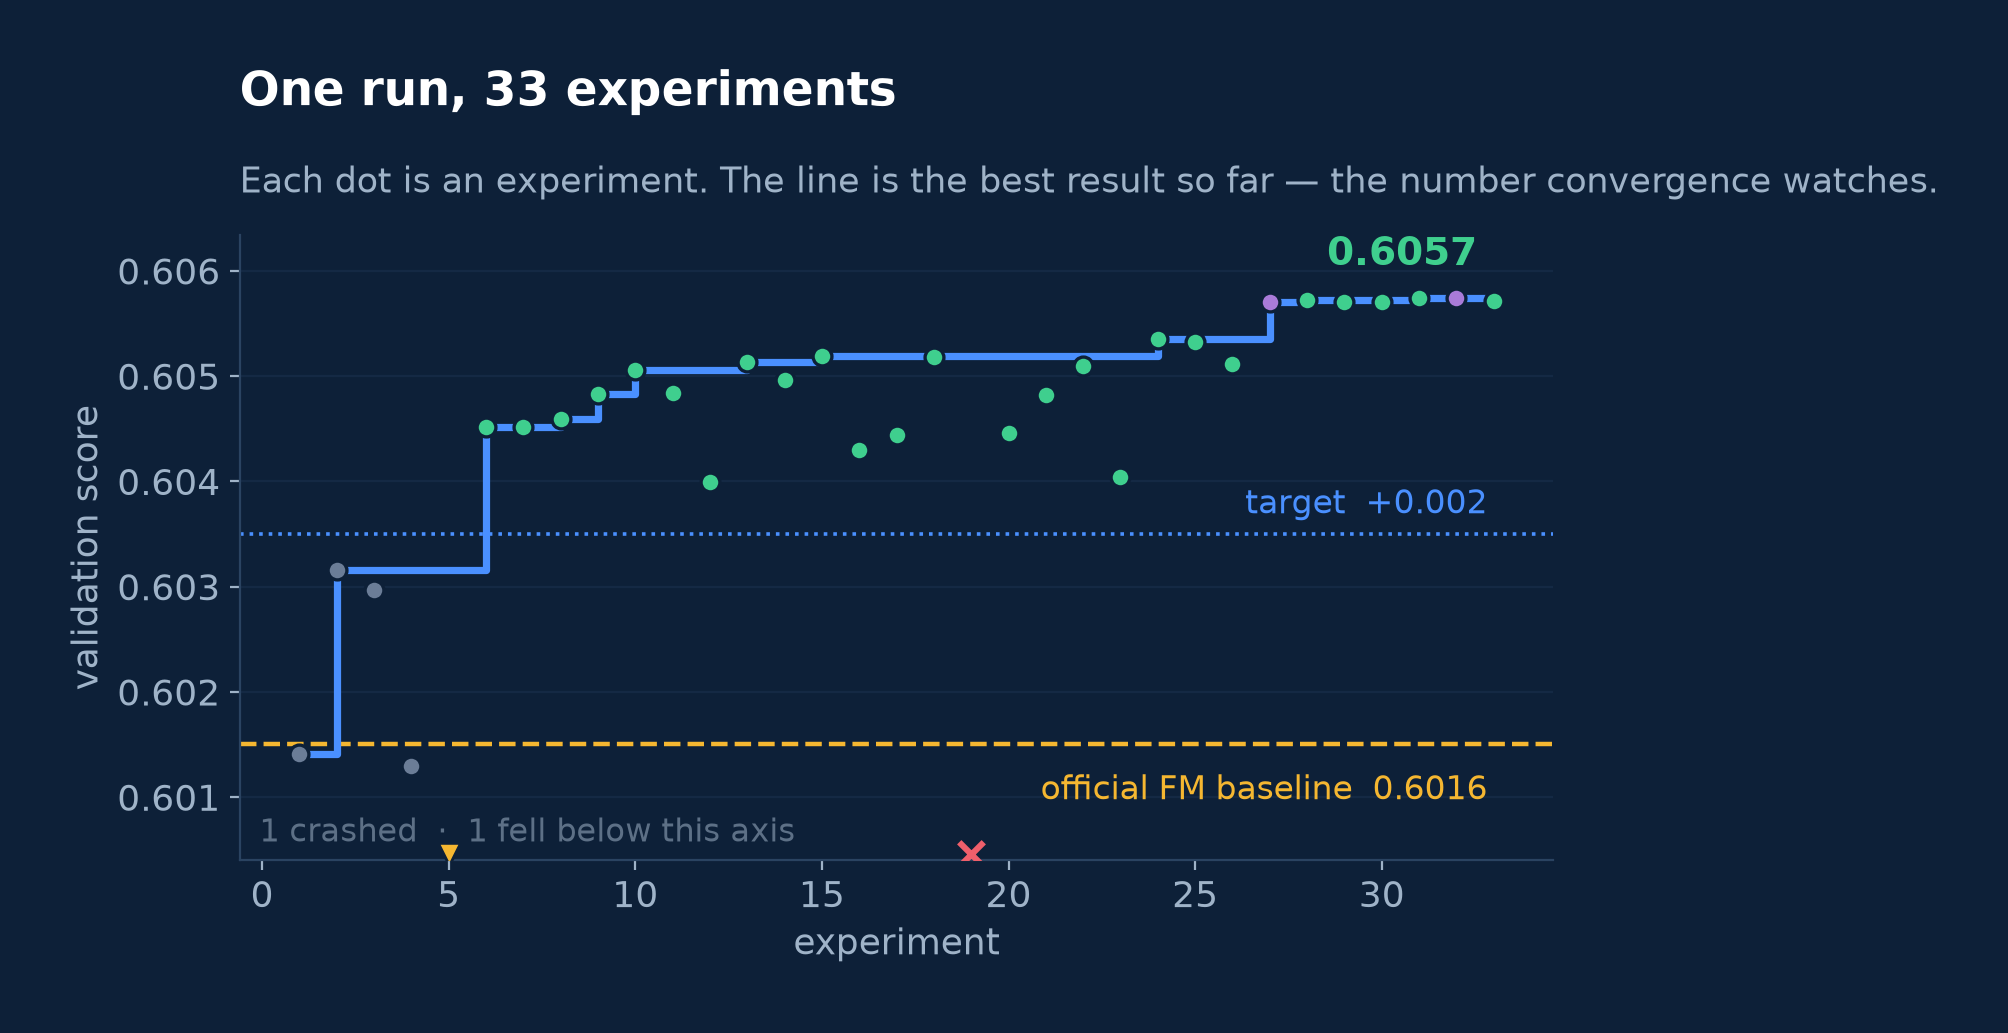
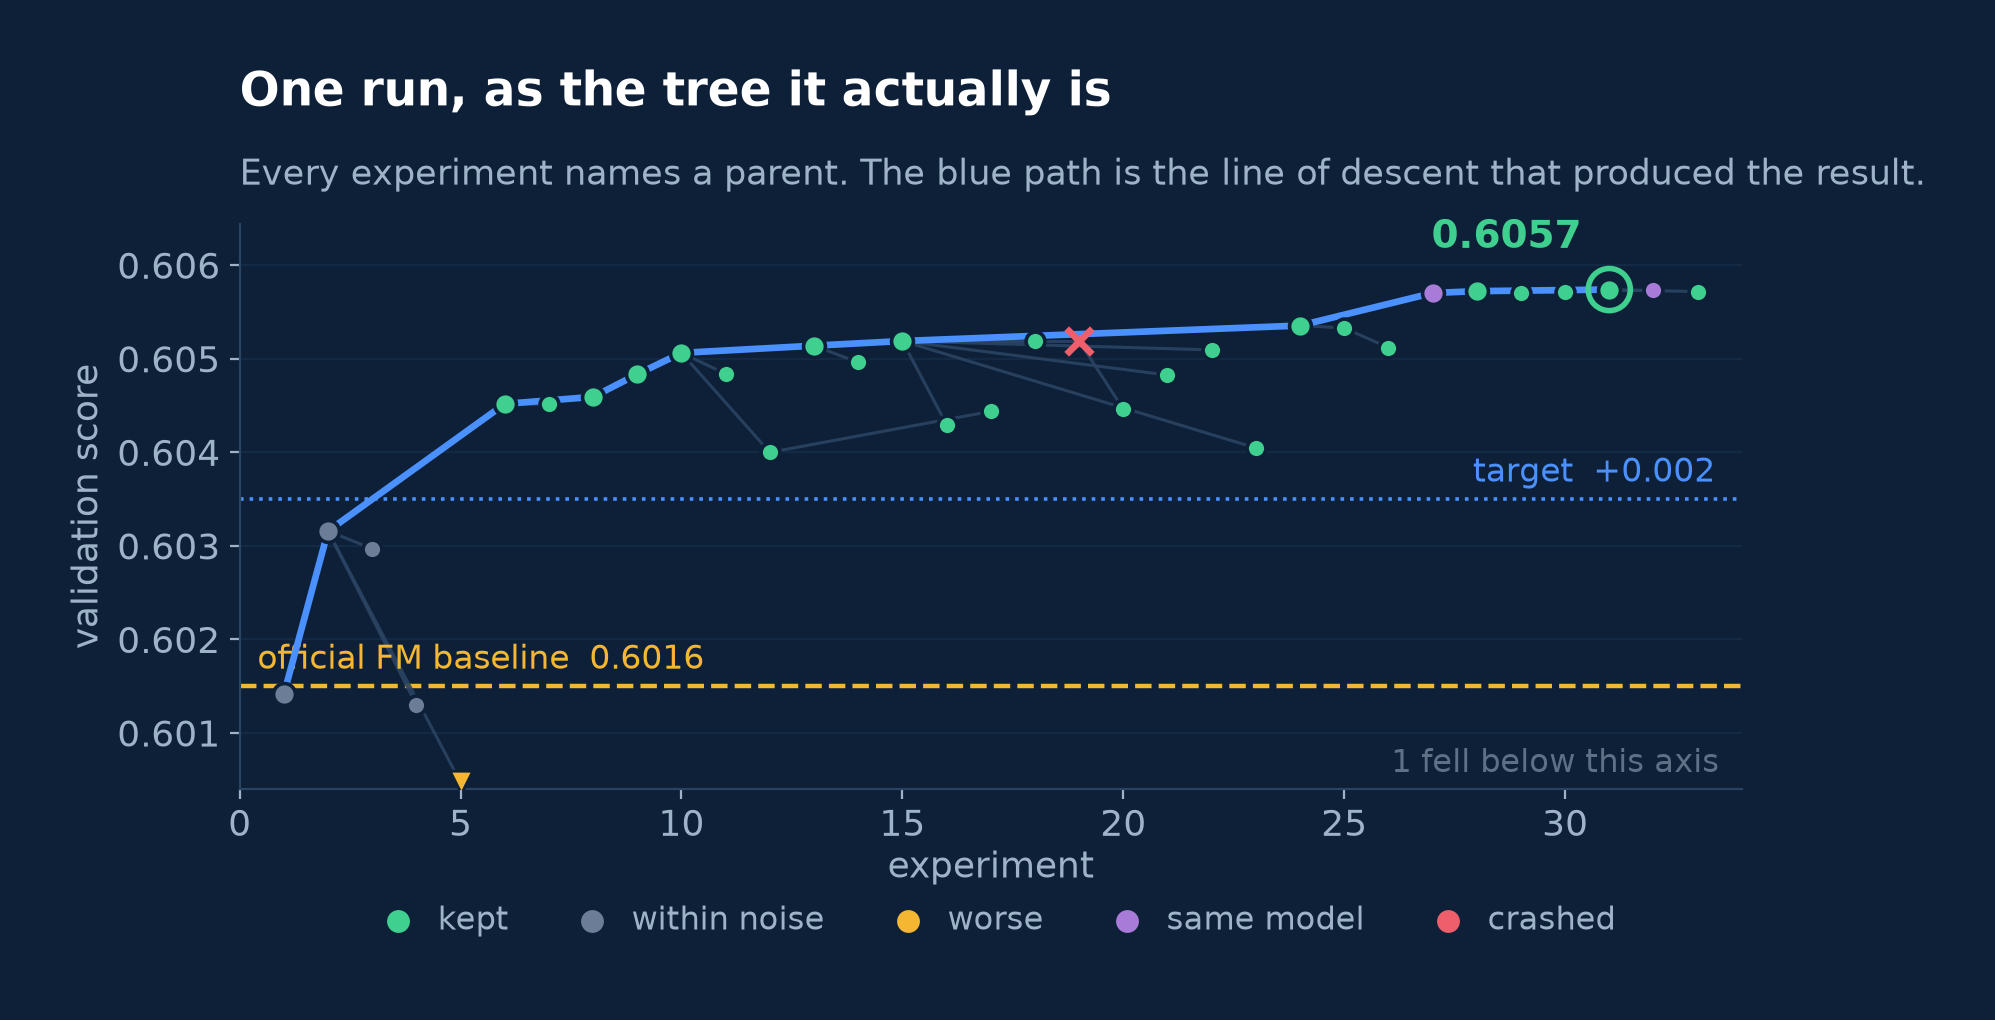
Draw the run as a tree, not a line
climb.png was a line chart, which showed the score climbing but hid the thing
worth showing: the experiments form a tree. Now every parent-child edge is
drawn, and the chain of descent that actually produced the result is picked out
in blue - so the branches that went nowhere are visible as the grey stubs they
were.

Score stays on the y axis rather than the rank the console uses: a static image
has no hover, so the axis has to carry units. Unscored experiments sit level
with their parent, which is the honest position for something that measured
nothing, and the one collapse below the window is marked rather than hidden.

diff --git a/tools/make_charts.py b/tools/make_charts.py
@@ -84,68 +84,108 @@ def finish(fig, ax, name, title, sub=None):
     print('  wrote %s' % os.path.relpath(p, ROOT))
 
 
-# ---------------------------------------------------------------- 1. climb
-def chart_trajectory(run='logs/record-run-9'):
-    recs = load(run)
-    sc = scored(recs)
-    fig, ax = plt.subplots(figsize=(9, 5))
+# ------------------------------------------------------------------ 1. tree
+def chart_tree(run='logs/record-run-9'):
+    """The run as the search tree it is: x is the experiment, y is its score.
 
+    Same shape as the console's tree, but on a real score axis rather than a
+    rank one - a static image has no hover, so the y-axis has to carry units.
+    """
+    recs = load(run)
+    by = {r['iteration']: r for r in recs}
+    sc = scored(recs)
+    top_rec = max(sc, key=lambda r: r['valid_primary'])
+    top = top_rec['valid_primary']
+    lo, hi = BASELINE - 0.0011, top + 0.0007
+
+    def parent_of(r):
+        try:
+            p = int(r.get('parent'))
+        except (TypeError, ValueError):
+            return None
+        return p if p in by else None
+
+    # An experiment that never scored has no height of its own, so it sits
+    # level with the node it came from - a dead end reads as a flat stub.
+    ypos = {}
+    for r in sorted(recs, key=lambda r: r['iteration']):
+        v = r.get('valid_primary')
+        if v is not None and r.get('verdict') not in ('screen', 'duplicate'):
+            ypos[r['iteration']] = v
+        else:
+            p = parent_of(r)
+            ypos[r['iteration']] = ypos.get(p, BASELINE)
+
+    # the chain of parents that actually produced the result
+    winning, cur = set(), top_rec['iteration']
+    while cur is not None and cur not in winning:
+        winning.add(cur)
+        cur = parent_of(by[cur]) if cur in by else None
+
+    fig, ax = plt.subplots(figsize=(9.5, 5.2))
+    ax.set_ylim(lo, hi)
     ax.axhline(BASELINE, color=YELLOW, lw=1.6, ls='--', zorder=1)
-    ax.text(len(recs) * 0.995, BASELINE - 0.00028, 'official FM baseline  0.6016',
-            color=YELLOW, ha='right', va='top', fontsize=12)
+    ax.text(0.4, BASELINE + 0.00010, 'official FM baseline  0.6016',
+            color=YELLOW, ha='left', va='bottom', fontsize=12)
     ax.axhline(TARGET, color=BLUE, lw=1.3, ls=':', zorder=1)
-    ax.text(len(recs) * 0.995, TARGET + 0.00012, 'target  +0.002',
+    ax.text(len(recs) + 0.4, TARGET + 0.00010, 'target  +0.002',
             color=BLUE, ha='right', va='bottom', fontsize=12)
 
-    # A single collapse to 0.5966 stretches the axis so the climb - the actual
-    # subject - lives in the top third. Clip to a readable window and mark what
-    # falls outside it, rather than hiding it or letting it own the chart.
-    top = max(r['valid_primary'] for r in sc)
-    lo, hi = BASELINE - 0.0011, top + 0.0006
-    ax.set_ylim(lo, hi)
-
-    best, xs, ys = -1, [], []
-    for r in sc:
-        best = max(best, r['valid_primary'])
-        xs.append(r['iteration']); ys.append(best)
-    ax.step(xs, ys, where='post', color=BLUE, lw=2.6, zorder=3)
+    clip = lambda y: max(lo + 0.00007, min(y, hi))
+    for r in recs:
+        p = parent_of(r)
+        if p is None:
+            continue
+        on = r['iteration'] in winning and p in winning
+        ax.plot([p, r['iteration']], [clip(ypos[p]), clip(ypos[r['iteration']])],
+                color=BLUE if on else '#2b4straight'[:7] if False else '#2b4463',
+                lw=2.4 if on else 1.1, zorder=3 if on else 2,
+                alpha=1.0 if on else 0.9, solid_capstyle='round')
 
     below = 0
-    for r in sc:
-        v = r['valid_primary']
-        if v < lo:
-            below += 1
-            ax.scatter(r['iteration'], lo + 0.00006, marker='v', s=64, zorder=4,
-                       color=VERDICT_COLOR.get(r.get('verdict'), GREY),
-                       edgecolor=BG, linewidth=1.0)
+    for r in recs:
+        it, y = r['iteration'], ypos[r['iteration']]
+        col = VERDICT_COLOR.get(r.get('verdict'), GREY)
+        if r.get('status') == 'error':
+            ax.scatter(it, clip(y), marker='x', s=85, color=RED, zorder=6,
+                       linewidth=2.4)
             continue
-        ax.scatter(r['iteration'], v, s=46, zorder=4,
-                   color=VERDICT_COLOR.get(r.get('verdict'), GREY),
-                   edgecolor=BG, linewidth=1.2)
-    fails = [r['iteration'] for r in recs if r.get('status') == 'error']
-    for it in fails:
-        ax.scatter(it, lo + 0.00006, marker='x', s=78, color=RED, zorder=5,
-                   linewidth=2.2)
+        if y < lo:
+            below += 1
+            ax.scatter(it, lo + 0.00007, marker='v', s=66, color=col,
+                       edgecolor=BG, linewidth=1.0, zorder=5)
+            continue
+        ax.scatter(it, y, s=62 if it in winning else 46, color=col,
+                   edgecolor=BG, linewidth=1.3, zorder=5)
 
-    notes = []
-    if fails:
-        notes.append('%d crashed' % len(fails))
-    if below:
-        notes.append('%d fell below this axis' % below)
-    if notes:
-        ax.text(0.015, 0.03, '  ·  '.join(notes), transform=ax.transAxes,
-                color=FAINT, fontsize=11.5, ha='left')
+    ax.scatter([top_rec['iteration']], [top], s=230, facecolor='none',
+               edgecolor=GREEN, linewidth=2.0, zorder=6)
+    ax.annotate('0.6057', xy=(top_rec['iteration'], top), xytext=(-10, 15),
+                textcoords='offset points', color=GREEN, fontsize=14,
+                fontweight='bold', ha='right')
 
-    fin = max(r['valid_primary'] for r in sc)
-    ax.annotate('0.6057', xy=(xs[-1], fin), xytext=(-6, 12),
-                textcoords='offset points', color=GREEN,
-                fontsize=14, fontweight='bold', ha='right')
-    ax.set_xlabel('experiment')
+    ax.set_xlabel('experiment', labelpad=2)
     ax.set_ylabel('validation score')
+    ax.set_xlim(0, len(recs) + 1)
     ax.yaxis.set_major_formatter(FuncFormatter(lambda v, p: '%.3f' % v))
-    finish(fig, ax, 'climb.png', 'One run, 33 experiments',
-           'Each dot is an experiment. The line is the best result so far — '
-           'the number convergence watches.')
+
+    key = [('kept', GREEN), ('within noise', GREY), ('worse', YELLOW),
+           ('same model', '#a97bd8'), ('crashed', RED)]
+    for i, (lab, col) in enumerate(key):
+        ax.scatter([], [], color=col, s=52, label=lab)
+    # below the x label, not on top of it
+    leg = ax.legend(loc='upper center', frameon=False, ncol=5, fontsize=11.5,
+                    handletextpad=0.25, columnspacing=1.6,
+                    bbox_to_anchor=(0.5, -0.155))
+    for t in leg.get_texts():
+        t.set_color(DIM)
+    if below:
+        ax.text(0.985, 0.03, '%d fell below this axis' % below,
+                transform=ax.transAxes, color=FAINT, fontsize=11.5, ha='right')
+
+    finish(fig, ax, 'climb.png', 'One run, as the tree it actually is',
+           'Every experiment names a parent. The blue path is the line of '
+           'descent that produced the result.')
 
 
 # ------------------------------------------------------ 2. is it repeatable
@@ -247,7 +287,7 @@ def chart_overlap():
 
 if __name__ == '__main__':
     print('rendering charts from the run records:')
-    chart_trajectory()
+    chart_tree()
     chart_consistency()
     chart_margin()
     chart_overlap()
